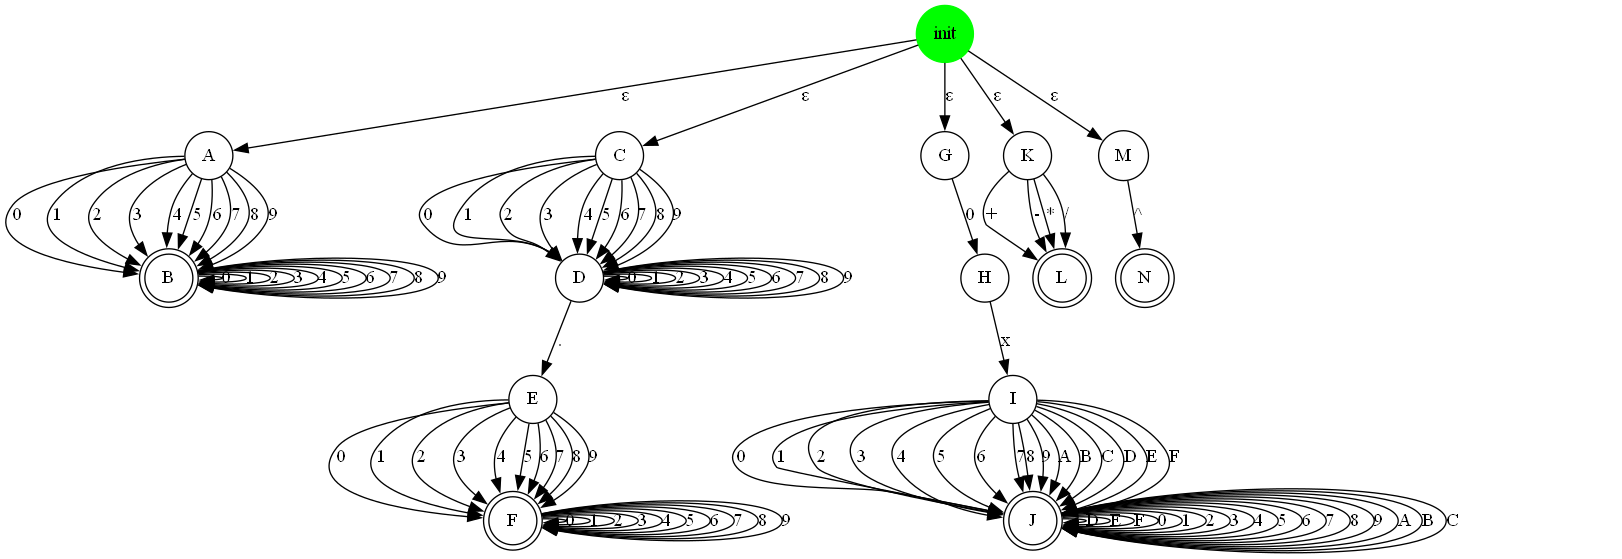
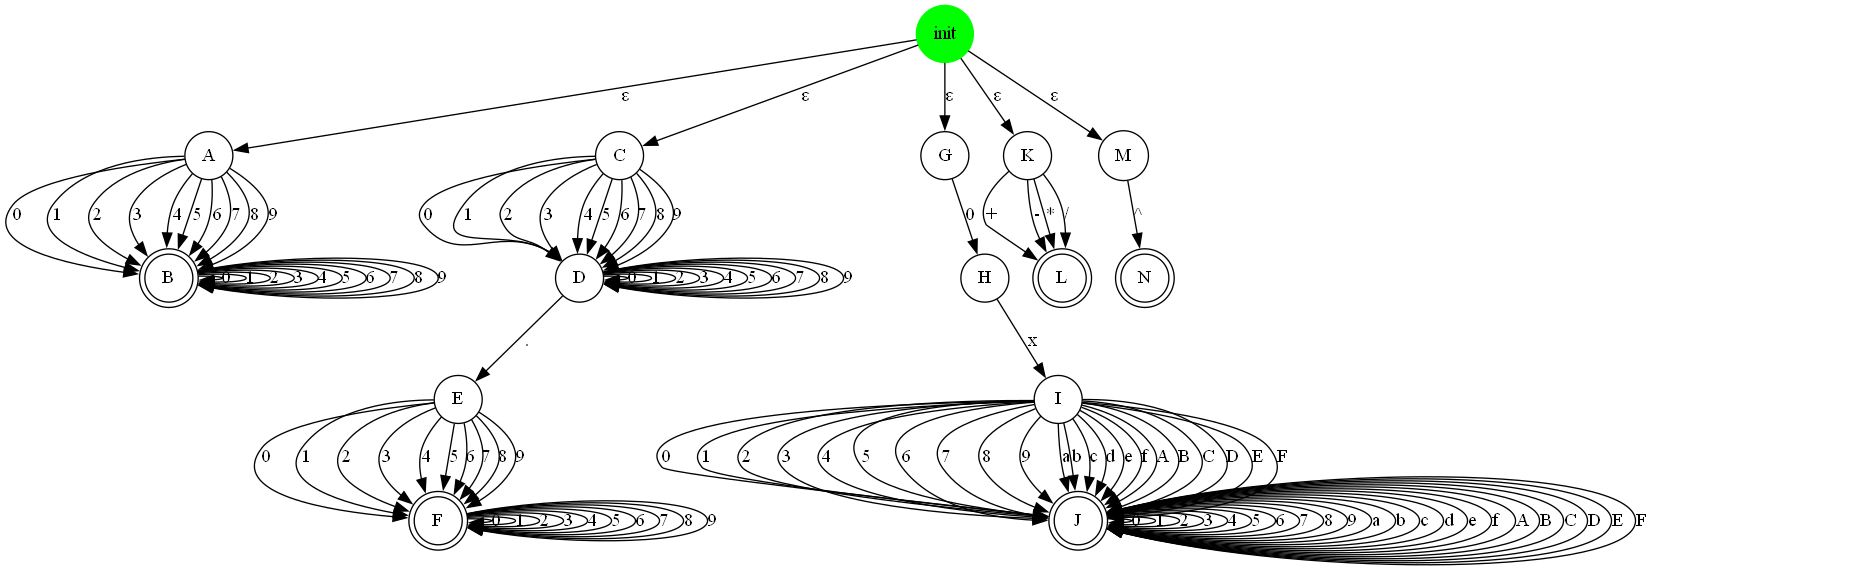
update test

diff --git a/sara_compis1_tools/generated.py b/sara_compis1_tools/generated.py
@@ -3,7 +3,7 @@ from sara_compis1_tools.lexEval import LexEval
 from sara_compis1_tools.Error import Error
 import sys
 
-mega = [StateAFD(name='init',transitions={'ε': 'A'},accepting=False,start=True, value=None),StateAFD(name='A',transitions={'0': 'B', '1': 'B', '2': 'B', '3': 'B', '4': 'B', '5': 'B', '6': 'B', '7': 'B', '8': 'B', '9': 'B'},accepting=False,start=False, value=None),StateAFD(name='B',transitions={'0': 'B', '1': 'B', '2': 'B', '3': 'B', '4': 'B', '5': 'B', '6': 'B', '7': 'B', '8': 'B', '9': 'B'},accepting=True,start=False, value='print("Número entero\\n")'),StateAFD(name='init',transitions={'ε': 'C'},accepting=False,start=True, value=None),StateAFD(name='C',transitions={'0': 'D', '1': 'D', '2': 'D', '3': 'D', '4': 'D', '5': 'D', '6': 'D', '7': 'D', '8': 'D', '9': 'D'},accepting=False,start=False, value=None),StateAFD(name='D',transitions={'0': 'D', '1': 'D', '2': 'D', '3': 'D', '4': 'D', '5': 'D', '6': 'D', '7': 'D', '8': 'D', '9': 'D', '.': 'E'},accepting=False,start=False, value=None),StateAFD(name='E',transitions={'0': 'F', '1': 'F', '2': 'F', '3': 'F', '4': 'F', '5': 'F', '6': 'F', '7': 'F', '8': 'F', '9': 'F'},accepting=False,start=False, value=None),StateAFD(name='F',transitions={'0': 'F', '1': 'F', '2': 'F', '3': 'F', '4': 'F', '5': 'F', '6': 'F', '7': 'F', '8': 'F', '9': 'F'},accepting=True,start=False, value='print("Número decimal\\n")'),StateAFD(name='init',transitions={'ε': 'G'},accepting=False,start=True, value=None),StateAFD(name='G',transitions={'0': 'H'},accepting=False,start=False, value=None),StateAFD(name='H',transitions={'x': 'I'},accepting=False,start=False, value=None),StateAFD(name='I',transitions={'0': 'J', '1': 'J', '2': 'J', '3': 'J', '4': 'J', '5': 'J', '6': 'J', '7': 'J', '8': 'J', '9': 'J', 'A': 'J', 'B': 'J', 'C': 'J', 'D': 'J', 'E': 'J', 'F': 'J'},accepting=False,start=False, value=None),StateAFD(name='J',transitions={'D': 'J', 'E': 'J', 'F': 'J', '0': 'J', '1': 'J', '2': 'J', '3': 'J', '4': 'J', '5': 'J', '6': 'J', '7': 'J', '8': 'J', '9': 'J', 'A': 'J', 'B': 'J', 'C': 'J'},accepting=True,start=False, value='print("Número hexadecimal\\n")'),StateAFD(name='init',transitions={'ε': 'K'},accepting=False,start=True, value=None),StateAFD(name='K',transitions={'+': 'L', '-': 'L', '*': 'L', '/': 'L'},accepting=False,start=False, value=None),StateAFD(name='L',transitions={},accepting=True,start=False, value='print("Operador aritmetico\\n")'),StateAFD(name='init',transitions={'ε': 'M'},accepting=False,start=True, value=None),StateAFD(name='M',transitions={'^': 'N'},accepting=False,start=False, value=None),StateAFD(name='N',transitions={},accepting=True,start=False, value='print("Operador de potenciacion\\n")')]
+mega = [StateAFD(name='init',transitions={'ε': 'A'},accepting=False,start=True, value=None),StateAFD(name='A',transitions={'0': 'B', '1': 'B', '2': 'B', '3': 'B', '4': 'B', '5': 'B', '6': 'B', '7': 'B', '8': 'B', '9': 'B'},accepting=False,start=False, value=None),StateAFD(name='B',transitions={'0': 'B', '1': 'B', '2': 'B', '3': 'B', '4': 'B', '5': 'B', '6': 'B', '7': 'B', '8': 'B', '9': 'B'},accepting=True,start=False, value='print("Número entero\\n")'),StateAFD(name='init',transitions={'ε': 'C'},accepting=False,start=True, value=None),StateAFD(name='C',transitions={'0': 'D', '1': 'D', '2': 'D', '3': 'D', '4': 'D', '5': 'D', '6': 'D', '7': 'D', '8': 'D', '9': 'D'},accepting=False,start=False, value=None),StateAFD(name='D',transitions={'0': 'D', '1': 'D', '2': 'D', '3': 'D', '4': 'D', '5': 'D', '6': 'D', '7': 'D', '8': 'D', '9': 'D', '.': 'E'},accepting=False,start=False, value=None),StateAFD(name='E',transitions={'0': 'F', '1': 'F', '2': 'F', '3': 'F', '4': 'F', '5': 'F', '6': 'F', '7': 'F', '8': 'F', '9': 'F'},accepting=False,start=False, value=None),StateAFD(name='F',transitions={'0': 'F', '1': 'F', '2': 'F', '3': 'F', '4': 'F', '5': 'F', '6': 'F', '7': 'F', '8': 'F', '9': 'F'},accepting=True,start=False, value='print("Número decimal\\n")'),StateAFD(name='init',transitions={'ε': 'G'},accepting=False,start=True, value=None),StateAFD(name='G',transitions={'0': 'H'},accepting=False,start=False, value=None),StateAFD(name='H',transitions={'x': 'I'},accepting=False,start=False, value=None),StateAFD(name='I',transitions={'0': 'J', '1': 'J', '2': 'J', '3': 'J', '4': 'J', '5': 'J', '6': 'J', '7': 'J', '8': 'J', '9': 'J', 'a': 'J', 'b': 'J', 'c': 'J', 'd': 'J', 'e': 'J', 'f': 'J', 'A': 'J', 'B': 'J', 'C': 'J', 'D': 'J', 'E': 'J', 'F': 'J'},accepting=False,start=False, value=None),StateAFD(name='J',transitions={'0': 'J', '1': 'J', '2': 'J', '3': 'J', '4': 'J', '5': 'J', '6': 'J', '7': 'J', '8': 'J', '9': 'J', 'a': 'J', 'b': 'J', 'c': 'J', 'd': 'J', 'e': 'J', 'f': 'J', 'A': 'J', 'B': 'J', 'C': 'J', 'D': 'J', 'E': 'J', 'F': 'J'},accepting=True,start=False, value='print("Número hexadecimal\\n")'),StateAFD(name='init',transitions={'ε': 'K'},accepting=False,start=True, value=None),StateAFD(name='K',transitions={'+': 'L', '-': 'L', '*': 'L', '/': 'L'},accepting=False,start=False, value=None),StateAFD(name='L',transitions={},accepting=True,start=False, value='print("Operador aritmetico\\n")'),StateAFD(name='init',transitions={'ε': 'M'},accepting=False,start=True, value=None),StateAFD(name='M',transitions={'^': 'N'},accepting=False,start=False, value=None),StateAFD(name='N',transitions={},accepting=True,start=False, value='print("Operador de potenciacion\\n")')]
 errors = set()
 
 if len(sys.argv) < 2:
